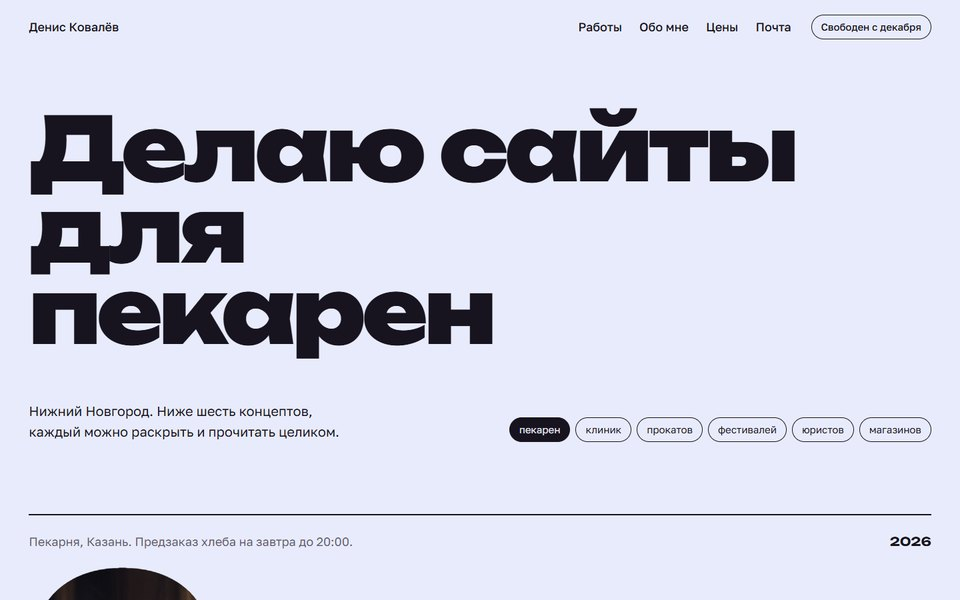
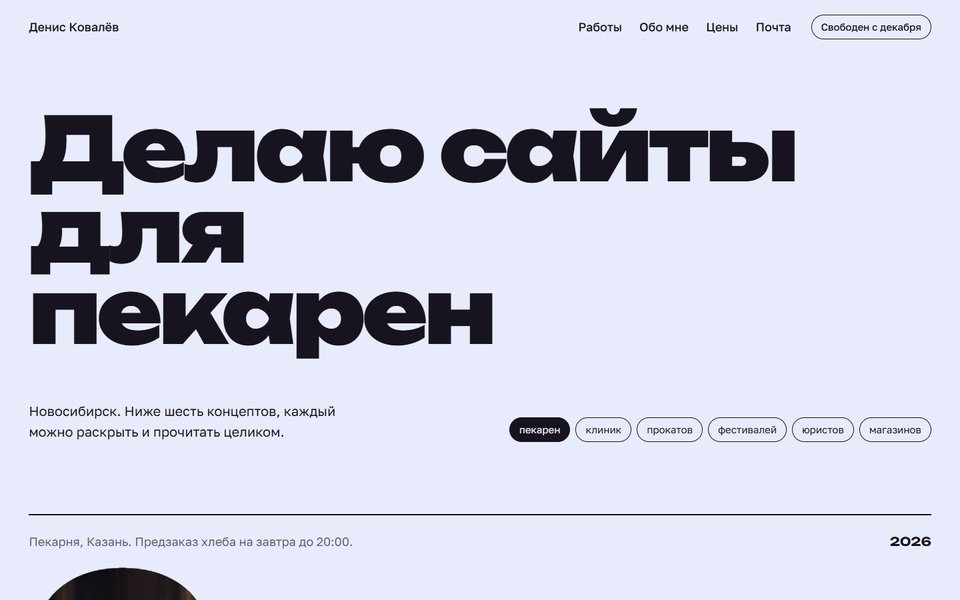
Исправил перекрытия и вёрстку, город Новосибирск

Changed region(s): [[0.0312, 0.66, 0.3438, 0.75]]

diff --git a/10-rizograf.html b/10-rizograf.html
@@ -73,11 +73,11 @@
   /* страницы проектов */
   .proj { display: grid; grid-template-columns: 1.25fr 1fr; gap: 40px; align-items: start; }
   .proj.flip { grid-template-columns: 1fr 1.25fr; }
-  .proj.flip .pics { order: 2; }
+  .proj.flip .pics { grid-column: 2; grid-row: 1; }
   .pics { position: relative; }
   .pics .main { aspect-ratio: 16 / 10; }
   .pics .mob { position: absolute; width: 30%; aspect-ratio: 9 / 19; right: -14px; bottom: -40px; border: 4px solid var(--paper); }
-  .pics .hint { font-size: 14px; margin-top: 52px; }
+  .pics .hint { font-size: 14px; margin-top: 52px; padding-right: calc(30% + 8px); }
   .proj .k { font-weight: 700; color: var(--pink); }
   .proj h2 { font-size: clamp(54px, 7vw, 104px); margin: 10px 0 20px; }
   .proj .problem { color: var(--ink); font-size: 19px; }
@@ -127,8 +127,10 @@
     .cover .art { width: 80%; right: -24%; top: 36%; opacity: .8; }
     .toc ol { columns: 1; }
     .proj, .proj.flip, .me { grid-template-columns: 1fr; gap: 24px; }
-    .proj.flip .pics { order: 0; }
+    .proj.flip .pics { grid-column: auto; grid-row: auto; }
     .pics .mob { width: 34%; right: 0; }
+    .pics .hint { padding-right: calc(34% + 12px); }
+    .pics { margin-bottom: 48px; }
     .more, .frames { grid-column: 1; }
     .moreg { grid-template-columns: 1fr; }
     .frames { grid-template-columns: 1fr; }
@@ -186,7 +188,11 @@ $('#colophon').textContent = `Отпечатано на ризографе в д
 requestAnimationFrame(() => requestAnimationFrame(() => document.body.classList.remove('boot')));
 
 /* цвет при наведении */
+// на телефоне наведения нет, поэтому цвет включается касанием
+const touch = matchMedia('(hover: none)').matches;
+if (touch) document.querySelectorAll('.pics .hint').forEach(h => h.textContent = 'Нажмите на картинку, чтобы увидеть её в цвете.');
 document.querySelectorAll('.riso').forEach(r => {
+  if (touch) return r.addEventListener('click', () => r.classList.toggle('live'));
   r.addEventListener('pointerenter', () => r.classList.add('live'));
   r.addEventListener('pointerleave', () => r.classList.remove('live'));
 });

diff --git a/04-galereya.html b/04-galereya.html
@@ -171,7 +171,7 @@ function piece(p, left, small) {
     <div class="placard"><h2>${esc(p.name)}</h2><p class="by">${esc(p.client)}, ${esc(p.city)}, ${p.year}</p><p>${esc(p.short)}.</p><p class="tech">${esc(p.tools)}</p><button data-i="${i}">Слушать аудиогид</button></div></div>`;
 }
 
-let html = `<section class="wall entrance" id="entrance"><p class="museum">Постоянная экспозиция</p><h1>${esc(D.name)}.<br>Шесть концептов</h1><p>Шесть работ веб-дизайнера из ${D.city === 'Нижний Новгород' ? 'Нижнего Новгорода' : esc(D.city)}. Пекарня, клиника, прокат лодок, кинофестиваль, юристы и магазин пряжи. У каждой работы есть аудиогид, то есть подробный рассказ.</p><p class="go"><span></span>Крутите колесо или листайте вправо</p></section><div class="wall door"></div>`;
+let html = `<section class="wall entrance" id="entrance"><p class="museum">Постоянная экспозиция</p><h1>${esc(D.name)}.<br>Шесть концептов</h1><p>Шесть работ веб-дизайнера из ${esc(D.cityFrom || D.city)}. Пекарня, клиника, прокат лодок, кинофестиваль, юристы и магазин пряжи. У каждой работы есть аудиогид, то есть подробный рассказ.</p><p class="go"><span></span>Крутите колесо или листайте вправо</p></section><div class="wall door"></div>`;
 rooms.forEach(r => {
   const [a, b] = r.items.map(id => P[by(id)]);
   html += `<section class="wall room" id="${r.id}"><h2 class="room-title"><small>Зал ${r.num}</small>${r.title}</h2>${piece(a, 120)}${piece(b, 1110, true)}</section><div class="wall door"></div>`;

diff --git a/06-konstruktivizm.html b/06-konstruktivizm.html
@@ -47,7 +47,7 @@
 
   .poster { position: relative; padding: 14vh var(--side); border-top: 10px solid var(--black); display: grid; grid-template-columns: repeat(12, 1fr); gap: 24px; align-items: center; overflow: hidden; }
   .poster .n { position: absolute; right: var(--side); top: 3vh; font-size: 160px; line-height: 1; color: var(--red); opacity: .9; }
-  .poster h2 { font-size: clamp(54px, 9vw, 150px); line-height: .86; }
+  .poster h2 { font-size: clamp(54px, 9vw, 150px); line-height: .9; margin-bottom: 10px; }
   .poster .what { font-size: 22px; max-width: 30ch; }
   .poster .what b { font-family: var(--disp); font-weight: 500; text-transform: uppercase; display: block; font-size: 16px; color: var(--red); margin-bottom: 6px; }
   .rd { display: inline-flex; margin-top: 22px; font: 700 20px var(--disp); text-transform: uppercase; background: var(--black); color: var(--paper); padding: 10px 18px; }
@@ -63,9 +63,10 @@
   .v3 h2 { color: var(--black); }
   .v4 .duo { grid-column: 5 / 12; aspect-ratio: 4 / 3; transform: rotate(-6deg); box-shadow: 18px 18px 0 var(--black); }
   .v4 .txt { grid-column: 1 / 5; grid-row: 1; }
-  .v5 .duo { grid-column: 1 / 7; aspect-ratio: 1; border-radius: 50%; }
-  .v5 .duo + .duo { grid-column: 7 / 10; aspect-ratio: 9 / 19; border-radius: 0; align-self: end; }
-  .v5 .txt { grid-column: 10 / 13; }
+  .v5 .duo { grid-column: 1 / 6; aspect-ratio: 1; border-radius: 50%; }
+  .v5 .duo + .duo { grid-column: 6 / 9; aspect-ratio: 9 / 19; border-radius: 0; align-self: end; }
+  .v5 .txt { grid-column: 9 / 13; }
+  .v5 h2 { font-size: clamp(54px, 6vw, 100px); line-height: .98; margin-bottom: 10px; }
   .v6 .duo { grid-column: 1 / 13; aspect-ratio: 21 / 8; clip-path: polygon(0 20%, 100% 0, 100% 80%, 0 100%); }
   .v6 .txt { grid-column: 4 / 11; text-align: center; }
   .v6 .what { margin: 0 auto; }

diff --git a/09-arhiv.html b/09-arhiv.html
@@ -52,7 +52,7 @@
   .icard::after { content: ""; position: absolute; left: 50%; bottom: 10px; width: 16px; height: 16px; margin-left: -8px; border-radius: 50%; background: var(--card); box-shadow: inset 0 1px 2px rgba(0,0,0,.35); }
   .icard .code { display: flex; justify-content: space-between; font-size: 13px; }
   .icard h3 { font: 700 28px/1 var(--head); margin-top: 12px; }
-  .icard dl { display: grid; grid-template-columns: auto 1fr; gap: 0 10px; font-size: 13.5px; line-height: 24px; margin-top: 4px; }
+  .icard dl { display: grid; grid-template-columns: auto 1fr; gap: 0 10px; font-size: 13.5px; line-height: 24px; margin-top: 4px; padding-right: calc(34% + 16px); }
   .icard dt { color: var(--soft); }
   .icard .thumb { position: absolute; right: 20px; top: 60px; width: 34%; transform: rotate(3deg); box-shadow: 0 6px 10px -4px rgba(0,0,0,.4); border: 4px solid #fff; }
   .icard .thumb::before { content: ""; position: absolute; top: -14px; left: 18px; width: 12px; height: 34px; border: 2px solid #8b8f94; border-radius: 6px; }
@@ -115,8 +115,9 @@
     .drawer { padding: 16px; }
     .icard { aspect-ratio: auto; min-height: 260px; padding-bottom: 40px; }
     .icard .thumb { position: static; width: 70%; margin: 10px 0 6px; transform: rotate(1.5deg); }
-    .icard dl { margin-right: 0; }
+    .icard dl { margin-right: 0; padding-right: 0; }
     .sheet { padding: 30px 18px; }
+    .sheet .num { position: static; display: block; margin-bottom: 6px; }
     .shade { padding: 10px; }
     .folder { padding: 20px 14px; }
     .folder .cover { flex-direction: column; align-items: flex-start; }

diff --git a/03-stol.html b/03-stol.html
@@ -159,9 +159,9 @@ $('#ry').innerHTML = Array.from({ length: 12 }, (_, i) => `<span style="top:${i 
 
 /* раскладка: x и y в процентах ширины и пикселях, r поворот */
 const layout = [
-  ['card', 3, 60, -1.5], ['sheet0', 36, 70, 2.5], ['sheet1', 68, 40, -3], ['sticky0', 30, 470, -6],
-  ['sheet2', 4, 600, -2], ['note', 40, 560, 1.5], ['sheet3', 66, 520, 3.5], ['sticky1', 88, 470, 7],
-  ['sheet4', 8, 1080, 2], ['receipt', 42, 1060, -4], ['sheet5', 62, 1050, -2.5], ['sticky2', 30, 1440, 4],
+  ['card', 3, 60, -1.5], ['sheet0', 36, 70, 2.5], ['sheet1', 68, 40, -3], ['sticky0', 24, 440, -6],
+  ['sheet2', 4, 600, -2], ['note', 37, 560, 1.5], ['sheet3', 68, 520, 3.5], ['sticky1', 86, 470, 7],
+  ['sheet4', 8, 1080, 2], ['receipt', 42, 1150, -4], ['sheet5', 62, 1050, -2.5], ['sticky2', 30, 1440, 4],
   ['checklist', 5, 1520, -3], ['bcard', 52, 1560, 5], ['pencil', 66, 1830, -12]
 ];
 const tidyLayout = {
@@ -192,6 +192,11 @@ layout.forEach(([k, x, y, r]) => {
   el.style.left = x + '%'; el.style.top = y + 'px';
   el.style.transform = `rotate(${r}deg)`; el.dataset.r = r;
   el.style.zIndex = z++;
+});
+// на узком экране правые предметы не должны уезжать за край стола
+if (!matchMedia('(max-width: 900px)').matches) desk.querySelectorAll('.item').forEach(el => {
+  const over = el.offsetLeft + el.offsetWidth - (desk.clientWidth - 16);
+  if (over > 0) el.style.left = Math.max(0, el.offsetLeft - over) + 'px';
 });
 
 /* перетаскивание */

diff --git a/_клиенты/tihiy.html b/_клиенты/tihiy.html
@@ -72,7 +72,7 @@
 
   .price { padding-block: 80px; }
   .price .in { display: grid; grid-template-columns: repeat(3, 1fr); gap: 0; }
-  .price div { padding: 10px 30px; border-left: 2px solid var(--pine); }
+  .price .in > div { padding: 10px 30px; border-left: 2px solid var(--pine); }
   .price b { display: block; font: 800 64px/1 var(--cond); color: var(--pine); }
   .price span { color: var(--muted); }
   .foot { background: var(--pine); color: #a9bab4; padding: 30px 40px; font-size: 14px; text-align: center; }
@@ -95,7 +95,7 @@
     .day span { font-size: 10px; line-height: 1.2; }
     .rgrid, .price .in { grid-template-columns: 1fr; gap: 26px; }
     .routes { padding-block: 50px; }
-    .price div { border-left: 0; border-top: 2px solid var(--pine); padding: 14px 0; }
+    .price .in > div { border-left: 0; border-top: 2px solid var(--pine); padding: 14px 0; }
   }
 </style>
 </head>

diff --git a/05-brauzer.html b/05-brauzer.html
@@ -141,7 +141,7 @@ const NOTES = {
 };
 
 const tabsEl = $('#tabs'), pane = $('#pane'), side = $('#side');
-const tabs = [{ id: 'home', title: D.name + ', портфолио', color: '#1b1d22', url: `<b>kovalev.design</b>` }]
+const tabs = [{ id: 'home', title: D.name + ', портфолио', color: '#1b1d22', url: `<b>krodisk.github.io</b>/portfolio` }]
   .concat(P.map(p => ({ id: p.id, title: `${p.name}, ${p.client.toLowerCase()}`, color: p.accent, url: `<b>${p.id}.ru</b>, макет ${p.year} года` })));
 tabsEl.innerHTML = tabs.map((t, i) => `<button class="tab" role="tab" id="tab-${t.id}" aria-selected="${i === 0}" data-id="${t.id}"><i style="background:${t.color}"></i><span>${esc(t.title)}</span><b class="x" aria-hidden="true">×</b></button>`).join('') + `<span class="plus" aria-hidden="true">+</span>`;
 

diff --git a/_клиенты/plenka.html b/_клиенты/plenka.html
@@ -35,7 +35,7 @@
   .hero .grid { display: grid; grid-template-columns: 1.15fr 1fr; gap: 40px; align-items: end; padding-bottom: 60px; }
   .hero h1 { font: 900 168px/.86 var(--disp); letter-spacing: -.05em; margin-top: 50px; }
   .hero .when { display: flex; gap: 50px; margin-top: 34px; font-size: 19px; }
-  .hero .when b { display: block; font: 800 34px var(--disp); }
+  .hero .when b { display: block; font: 800 34px var(--disp); white-space: nowrap; }
   .frame { position: relative; height: 560px; background: var(--ink); padding: 26px 0; }
   .frame::before, .frame::after { content: ""; position: absolute; left: 0; right: 0; height: 14px; background: radial-gradient(circle, var(--yellow) 4px, transparent 4.5px) 0 0 / 24px 14px repeat-x; }
   .frame::before { top: 6px; } .frame::after { bottom: 6px; }

diff --git a/08-zhurnal.html b/08-zhurnal.html
@@ -68,6 +68,7 @@
   /* развороты */
   .bleed { padding: 0; background: var(--tint, var(--blush)); display: flex; align-items: center; justify-content: center; min-height: 100vh; }
   .bleed > img.main { width: 84%; height: auto; box-shadow: 0 40px 60px -30px rgba(0,0,0,.45); margin-bottom: 8%; }
+  .bleed .folio { display: none; }
   .bleed .cap { position: absolute; left: 24px; bottom: 24px; right: 24px; background: rgba(255,255,255,.94); padding: 10px 14px; font: 400 14px/1.45 var(--sans); max-width: 380px; }
   .bleed .phone { position: absolute; right: 5%; bottom: 9%; width: 20%; border: 7px solid #111; border-radius: 26px; overflow: hidden; box-shadow: 0 30px 50px -20px rgba(0,0,0,.55); }
   .kicker { font: 600 14px var(--sans); color: var(--emerald); margin-top: 26px; }

diff --git a/_клиенты/opara.html b/_клиенты/opara.html
@@ -95,9 +95,9 @@
     .hero p.lead { font-size: 17px; }
     .hero .cta { margin: 22px 0 26px; flex-direction: column; align-items: stretch; }
     .hero .note { max-width: none; text-align: center; }
-    .shot { height: 300px; margin-inline: -18px; }
-    .shot img { border-radius: 0; }
-    .order { position: relative; left: auto; bottom: auto; width: auto; margin: -60px 0 0; }
+    .shot { height: auto; margin-inline: -18px; padding-bottom: 18px; }
+    .shot img { height: 300px; border-radius: 0; }
+    .order { position: relative; left: auto; bottom: auto; width: auto; margin: -60px 18px 0; }
     .sec { padding-block: 56px; }
     .sec h2 { font-size: 30px; }
     .sec .top { flex-direction: column; align-items: start; gap: 10px; margin-bottom: 24px; }

diff --git a/_клиенты/suharev.html b/_клиенты/suharev.html
@@ -34,7 +34,7 @@
   .logo { font: 500 24px/1.1 var(--serif); color: #fff; }
   .logo small { display: block; font: 400 13px var(--sans); color: #d9b9bf; }
   .head nav { display: flex; gap: 28px; margin-left: auto; font-size: 16px; }
-  .head .call { border: 1px solid #c58d98; padding: 9px 16px; }
+  .head .call { border: 1px solid #c58d98; padding: 9px 16px; white-space: nowrap; }
 
   .hero { background: var(--wine); color: #fff; padding-bottom: 90px; }
   .hero .in { display: grid; grid-template-columns: 1.1fr 1fr; gap: 70px; padding-top: 60px; }

diff --git a/shared/projects.js b/shared/projects.js
@@ -5,7 +5,8 @@ window.DESIGNER = {
   name: 'Денис Ковалёв',
   first: 'Денис',
   last: 'Ковалёв',
-  city: 'Нижний Новгород',
+  city: 'Новосибирск',
+  cityFrom: 'Новосибирска',
   email: 'kova3167@gmail.com',
   telegram: '@SimilarF11',
   window: 'декабрь',
